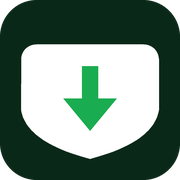
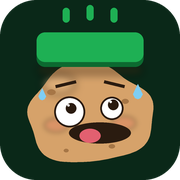
Иконка сайта: смешная картошка под кнопкой

diff --git a/source/make_icon.py b/source/make_icon.py
@@ -1,10 +1,9 @@
-"""Рисует иконку сайта: щит кнопки из игры с зелёной стрелкой вниз.
+"""Рисует иконку сайта: смешная картошка под давлением кнопки.
 
     python tools/make_icon.py <папка build>
 
-Форма — щит: плоский верх со скруглёнными углами, плавные бока, закруглённое
-острие. Пропорции сняты с маски спрайта (плитка 10).
-Один и тот же контур идёт и в растр, и в SVG.
+Картошка приплюснута зелёной кнопкой, таращится вверх и потеет — отсылка
+к «Pressing Under Pressure». Один и тот же набор фигур идёт и в растр, и в SVG.
 Кладёт images/favicon.svg, favicon.ico (16/32/48), apple-touch-icon.png,
 icon-512.png.
 """
@@ -13,95 +12,159 @@ import math
 import sys
 from pathlib import Path
 
-from PIL import Image, ImageDraw
+from PIL import Image, ImageDraw, ImageFilter
 
 GRID = 512
-TOP = 126
-BOTTOM = 452
-HALF = 196
-SHOULDER = 312           # где бока начинают сходиться
-CORNER = 44
+SS = 2                       # суперсэмплинг: рисуем вдвое крупнее и уменьшаем
 
 TILE_RADIUS = 104
 TILE_BG = (10, 40, 24)
 
-ARROW_SHAFT = (233, 188, 279, 284)
-ARROW_HEAD = [(256, 372), (180, 280), (332, 280)]
+POTATO_C = (256, 326)
+POTATO_RX = 178
+POTATO_RY = 142
+POTATO = (214, 162, 106)
+POTATO_HI = (232, 190, 138)
+POTATO_SPOT = (166, 118, 70)
 
+PLATE = (104, 92, 408, 190)      # x0, y0, x1, y1 — зелёная кнопка сверху
+PLATE_R = 24
+PLATE_EDGE = 14                  # толщина нижней грани
+GREEN = (30, 176, 84)
+GREEN_DARK = (12, 106, 48)
+
+INK = (42, 27, 16)
 WHITE = (255, 255, 255)
-GREEN = (26, 172, 80)
+SWEAT = (126, 206, 244)
+
+EYES = [(198, 318, 44), (318, 308, 33)]   # cx, cy, r — разного размера, для смеха
+PUPIL_R = 15
+PUPIL_LIFT = 10
+BROWS = [(158, 246, 216, 232), (296, 232, 354, 246)]
+
+MOUTH = (196, 372, 378, 30)      # x0, x1, y, полувысота открытого рта
+TONGUE = (256, 386, 30, 20)      # cx, cy, rx, ry
+SPECKLES = [(146, 262, 12, 8), (356, 288, 10, 7), (318, 416, 9, 6), (188, 428, 7, 5)]
+SWEATS = [(392, 268, 14), (120, 274, 11)]
 
 
-def _cubic(p0, p1, p2, p3, n=18):
-    out = []
-    for i in range(1, n + 1):
-        t = i / n
-        u = 1 - t
-        x = u ** 3 * p0[0] + 3 * u * u * t * p1[0] + 3 * u * t * t * p2[0] + t ** 3 * p3[0]
-        y = u ** 3 * p0[1] + 3 * u * u * t * p1[1] + 3 * u * t * t * p2[1] + t ** 3 * p3[1]
-        out.append((x, y))
-    return out
-
-
-def _quad(p0, p1, p2, n=14):
-    out = []
-    for i in range(1, n + 1):
-        t = i / n
-        u = 1 - t
-        out.append((u * u * p0[0] + 2 * u * t * p1[0] + t * t * p2[0],
-                    u * u * p0[1] + 2 * u * t * p1[1] + t * t * p2[1]))
-    return out
-
-
-def _arc(cx, cy, r, a0, a1, n=10):
-    return [(cx + math.cos(a0 + (a1 - a0) * i / n) * r,
-             cy + math.sin(a0 + (a1 - a0) * i / n) * r) for i in range(1, n + 1)]
-
-
-def shield_points():
-    """Контур по часовой стрелке: прямые бока и плавный сход в острие."""
-    rt = CORNER
-    top_r = TOP + rt
-    shoulder = SHOULDER
-
-    pts = [(256 - HALF + rt, TOP), (256 + HALF - rt, TOP)]
-    pts += _arc(256 + HALF - rt, top_r, rt, -math.pi / 2, 0)
-
-    # правый бок: вниз до плеча, затем плавный сход к острию
-    pts.append((256 + HALF, shoulder))
-    pts += _quad(
-        (256 + HALF, shoulder),
-        (256 + HALF - 14, BOTTOM - (BOTTOM - shoulder) * 0.34),
-        (256, BOTTOM),
-        26,
-    )
-
-    # левый бок обратно
-    pts += _quad(
-        (256, BOTTOM),
-        (256 - HALF + 14, BOTTOM - (BOTTOM - shoulder) * 0.34),
-        (256 - HALF, shoulder),
-        26,
-    )
-    pts += _arc(256 - HALF + rt, top_r, rt, math.pi, math.pi * 1.5)
+def _blob_points(step=3.0):
+    """Картофелина: эллипс с мягкими неровностями по краю."""
+    pts = []
+    a = 0.0
+    while a < 360.0:
+        t = math.radians(a)
+        r = (1 + 0.055 * math.sin(3 * t + 0.7)
+             + 0.035 * math.cos(5 * t + 2.1)
+             + 0.02 * math.sin(7 * t + 4.0))
+        pts.append((POTATO_C[0] + POTATO_RX * math.cos(t) * r,
+                    POTATO_C[1] + POTATO_RY * math.sin(t) * r))
+        a += step
     return pts
 
 
-def _poly(points, k):
+def _s(points, k):
     return [(x * k, y * k) for x, y in points]
 
 
-def draw(size):
+def _wave(y, x0, x1, amp, humps=3, n=48):
+    """Волнистая линия для гримасы."""
+    out = []
+    for i in range(n + 1):
+        t = i / n
+        x = x0 + (x1 - x0) * t
+        out.append((x, y + amp * math.sin(t * math.pi * 2 * humps)))
+    return out
+
+
+def _drop(cx, cy, size):
+    """Капля пота: круг снизу и острие сверху."""
+    r = size
+    return [
+        (cx, cy - size * 2.1),
+        (cx + r * 0.55, cy - size * 0.9),
+        (cx + r, cy),
+        (cx + r * 0.55, cy + r * 0.8),
+        (cx, cy + r),
+        (cx - r * 0.55, cy + r * 0.8),
+        (cx - r, cy),
+        (cx - r * 0.55, cy - size * 0.9),
+    ]
+
+
+def draw(size=1024):
     k = size / GRID
     img = Image.new("RGBA", (size, size), (0, 0, 0, 0))
     d = ImageDraw.Draw(img)
 
+    # фон
     d.rounded_rectangle([0, 0, size - 1, size - 1], radius=TILE_RADIUS * k, fill=TILE_BG + (255,))
-    d.polygon(_poly(shield_points(), k), fill=WHITE + (255,))
 
-    x0, y0, x1, y1 = ARROW_SHAFT
-    d.rectangle([x0 * k, y0 * k, x1 * k, y1 * k], fill=GREEN + (255,))
-    d.polygon(_poly(ARROW_HEAD, k), fill=GREEN + (255,))
+    # картошка и её блик
+    d.polygon(_s(_blob_points(), k), fill=POTATO + (255,))
+
+    hi = Image.new("RGBA", (size, size), (0, 0, 0, 0))
+    ImageDraw.Draw(hi).ellipse([x * k for x in (118, 210, 214, 268)], fill=POTATO_HI + (120,))
+    img.alpha_composite(hi.filter(ImageFilter.GaussianBlur(12 * k)))
+
+    # румянец на щеках
+    blush = Image.new("RGBA", (size, size), (0, 0, 0, 0))
+    bd = ImageDraw.Draw(blush)
+    for cx, cy in ((160, 356), (352, 350)):
+        bd.ellipse([(cx - 34) * k, (cy - 20) * k, (cx + 34) * k, (cy + 20) * k],
+                   fill=(226, 120, 96, 90))
+    img.alpha_composite(blush.filter(ImageFilter.GaussianBlur(7 * k)))
+
+    for cx, cy, rx, ry in SPECKLES:
+        d.ellipse([(cx - rx) * k, (cy - ry) * k, (cx + rx) * k, (cy + ry) * k],
+                  fill=POTATO_SPOT + (255,))
+
+    # тень от кнопки на картошке
+    shadow = Image.new("RGBA", (size, size), (0, 0, 0, 0))
+    ImageDraw.Draw(shadow).rounded_rectangle(
+        [PLATE[0] * k, (PLATE[3] - 6) * k, PLATE[2] * k, (PLATE[3] + 26) * k],
+        radius=PLATE_R * k, fill=(60, 34, 12, 90))
+    img.alpha_composite(shadow.filter(ImageFilter.GaussianBlur(10 * k)))
+
+    # кнопка, которая давит сверху
+    x0, y0, x1, y1 = PLATE
+    d.rounded_rectangle([x0 * k, (y0 + PLATE_EDGE) * k, x1 * k, y1 * k],
+                        radius=PLATE_R * k, fill=GREEN_DARK + (255,))
+    d.rounded_rectangle([x0 * k, y0 * k, x1 * k, (y1 - PLATE_EDGE) * k],
+                        radius=PLATE_R * k, fill=GREEN + (255,))
+
+    # линии скорости над кнопкой
+    for cx, y0, y1 in ((188, 22, 64), (256, 14, 58), (324, 22, 64)):
+        d.rounded_rectangle([(cx - 10) * k, y0 * k, (cx + 10) * k, y1 * k],
+                            radius=10 * k, fill=GREEN + (255,))
+
+    # глаза — разные, чтобы картошка выглядела придурковато
+    for cx, cy, r in EYES:
+        d.ellipse([(cx - r) * k, (cy - r) * k, (cx + r) * k, (cy + r) * k], fill=WHITE + (255,))
+        d.ellipse([(cx - r) * k, (cy - r) * k, (cx + r) * k, (cy + r) * k],
+                  outline=INK + (255,), width=int(5 * k))
+    for cx, cy, r in EYES:
+        px, py = cx + 4, cy - PUPIL_LIFT
+        d.ellipse([(px - PUPIL_R) * k, (py - PUPIL_R) * k,
+                   (px + PUPIL_R) * k, (py + PUPIL_R) * k], fill=INK + (255,))
+        d.ellipse([(px - PUPIL_R + 4) * k, (py - PUPIL_R + 3) * k,
+                   (px - PUPIL_R + 11) * k, (py - PUPIL_R + 10) * k], fill=WHITE + (255,))
+
+    # поднятые брови — удивление от давления
+    for x0, y0, x1, y1 in BROWS:
+        d.line(_s([(x0, y0), (x1, y1)], k), fill=INK + (255,),
+               width=int(9 * k))
+
+    # открытый рот с языком
+    mx0, mx1, my, mh = MOUTH
+    d.ellipse([mx0 * k, (my - mh) * k, mx1 * k, (my + mh) * k], fill=INK + (255,))
+    tx, ty, trx, try_ = TONGUE
+    d.ellipse([(tx - trx) * k, (ty - try_) * k, (tx + trx) * k, (ty + try_) * k],
+              fill=(226, 96, 112, 255))
+
+    # пот
+    for cx, cy, size_ in SWEATS:
+        d.polygon(_s(_drop(cx, cy, size_), k), fill=SWEAT + (255,))
     return img
 
 
@@ -109,32 +172,95 @@ def _fmt(points):
     return " ".join(f"{x:.1f},{y:.1f}" for x, y in points)
 
 
-def _path(points):
-    return "M" + " L".join(f"{x:.1f} {y:.1f}" for x, y in points) + " Z"
+def _path(points, close=False):
+    d = "M" + " L".join(f"{x:.1f} {y:.1f}" for x, y in points)
+    return d + (" Z" if close else "")
 
 
 def svg():
-    x0, y0, x1, y1 = ARROW_SHAFT
-    return f"""<svg xmlns="http://www.w3.org/2000/svg" viewBox="0 0 512 512" width="512" height="512">
-  <rect width="512" height="512" rx="{TILE_RADIUS}" fill="rgb{TILE_BG}"/>
-  <path d="{_path(shield_points())}" fill="#ffffff"/>
-  <rect x="{x0}" y="{y0}" width="{x1 - x0}" height="{y1 - y0}" fill="rgb{GREEN}"/>
-  <polygon points="{_fmt(ARROW_HEAD)}" fill="rgb{GREEN}"/>
-</svg>
-"""
+    x0, y0, x1, y1 = PLATE
+    mouth = _wave(MOUTH[2], MOUTH[0], MOUTH[1], MOUTH[3])
+    parts = [
+        f'<svg xmlns="http://www.w3.org/2000/svg" viewBox="0 0 512 512" width="512" height="512">',
+        f'  <rect width="512" height="512" rx="{TILE_RADIUS}" fill="rgb{TILE_BG}"/>',
+        f'  <path d="{_path(_blob_points(), True)}" fill="rgb{POTATO}"/>',
+        '  <ellipse cx="166" cy="252" rx="50" ry="32" fill="rgb' + str(POTATO_HI) + '" opacity="0.55"/>',
+        '  <ellipse cx="160" cy="356" rx="34" ry="20" fill="rgb(226,120,96)" opacity="0.35"/>',
+        '  <ellipse cx="352" cy="350" rx="34" ry="20" fill="rgb(226,120,96)" opacity="0.35"/>',
+    ]
+    for cx, cy, rx, ry in SPECKLES:
+        parts.append(f'  <ellipse cx="{cx}" cy="{cy}" rx="{rx}" ry="{ry}" fill="rgb{POTATO_SPOT}"/>')
+
+    parts.append('  <defs><filter id="soft" x="-20%" y="-60%" width="140%" height="220%">'
+                 '<feGaussianBlur stdDeviation="7"/></filter></defs>')
+    parts.append(f'  <rect x="{x0}" y="{y1 - 2}" width="{x1 - x0}" height="24" rx="{PLATE_R}" '
+                 f'fill="rgb(60,34,12)" opacity="0.42" filter="url(#soft)"/>')
+    parts.append(f'  <rect x="{x0}" y="{y0 + PLATE_EDGE}" width="{x1 - x0}" height="{y1 - y0 - PLATE_EDGE}" '
+                 f'rx="{PLATE_R}" fill="rgb{GREEN_DARK}"/>')
+    parts.append(f'  <rect x="{x0}" y="{y0}" width="{x1 - x0}" height="{y1 - y0 - PLATE_EDGE}" '
+                 f'rx="{PLATE_R}" fill="rgb{GREEN}"/>')
+    for cx, y0, y1 in ((188, 22, 64), (256, 14, 58), (324, 22, 64)):
+        parts.append(f'  <rect x="{cx - 10}" y="{y0}" width="20" height="{y1 - y0}" rx="10" fill="rgb{GREEN}"/>')
+
+    for cx, cy, r in EYES:
+        parts.append(f'  <circle cx="{cx}" cy="{cy}" r="{r}" fill="#ffffff" stroke="rgb{INK}" stroke-width="5"/>')
+    for cx, cy, r in EYES:
+        px, py = cx + 4, cy - PUPIL_LIFT
+        parts.append(f'  <circle cx="{px}" cy="{py}" r="{PUPIL_R}" fill="rgb{INK}"/>')
+        parts.append(f'  <circle cx="{px - PUPIL_R + 8}" cy="{py - PUPIL_R + 6}" r="4" fill="#ffffff"/>')
+
+    for x0, y0, x1, y1 in BROWS:
+        parts.append(f'  <line x1="{x0}" y1="{y0}" x2="{x1}" y2="{y1}" '
+                     f'stroke="rgb{INK}" stroke-width="9" stroke-linecap="round"/>')
+
+    mx0, mx1, my, mh = MOUTH
+    parts.append(f'  <ellipse cx="{(mx0 + mx1) / 2}" cy="{my}" rx="{(mx1 - mx0) / 2}" ry="{mh}" fill="rgb{INK}"/>')
+    tx, ty, trx, try_ = TONGUE
+    parts.append(f'  <ellipse cx="{tx}" cy="{ty}" rx="{trx}" ry="{try_}" fill="rgb(226,96,112)"/>')
+
+    for cx, cy, size_ in SWEATS:
+        parts.append(f'  <path d="{_path(_drop(cx, cy, size_), True)}" fill="rgb{SWEAT}"/>')
+
+    parts.append('</svg>')
+    return "\n".join(parts) + "\n"
+
+
+def draw_small(size):
+    """Упрощённая версия для 16–32 px: крупные глаза и рот, без мелочей."""
+    k = size / GRID
+    img = Image.new("RGBA", (size, size), (0, 0, 0, 0))
+    d = ImageDraw.Draw(img)
+
+    d.rounded_rectangle([0, 0, size - 1, size - 1], radius=TILE_RADIUS * k, fill=TILE_BG + (255,))
+    d.ellipse([120 * k, 168 * k, 392 * k, 470 * k], fill=POTATO + (255,))
+
+    x0, y0, x1, y1 = (84, 84, 428, 208)
+    d.rounded_rectangle([x0 * k, (y0 + 20) * k, x1 * k, y1 * k], radius=32 * k, fill=GREEN_DARK + (255,))
+    d.rounded_rectangle([x0 * k, y0 * k, x1 * k, (y1 - 20) * k], radius=32 * k, fill=GREEN + (255,))
+
+    for cx, cy, r in ((190, 306, 60), (330, 306, 52)):
+        d.ellipse([(cx - r) * k, (cy - r) * k, (cx + r) * k, (cy + r) * k], fill=WHITE + (255,))
+        pr = int(r * 0.44)
+        d.ellipse([(cx - pr) * k, (cy - pr - 6) * k, (cx + pr) * k, (cy + pr - 6) * k], fill=INK + (255,))
+
+    d.ellipse([184 * k, 372 * k, 384 * k, 448 * k], fill=INK + (255,))
+    return img
 
 
 def build(out_dir):
     out = Path(out_dir) / "images"
     out.mkdir(parents=True, exist_ok=True)
 
-    master = draw(1024)
+    master = draw(GRID * SS).resize((512, 512), Image.LANCZOS)
     master.save(out / "icon-512.png")
     master.resize((180, 180), Image.LANCZOS).save(out / "apple-touch-icon.png")
     (out / "favicon.svg").write_text(svg(), encoding="utf-8")
 
     sizes = [(16, 16), (32, 32), (48, 48)]
-    frames = [master.resize(s, Image.LANCZOS) for s in sizes]
+    frames = []
+    for w, h in sizes:
+        base = draw_small(GRID) if w <= 32 else draw(GRID * SS)
+        frames.append(base.resize((w, h), Image.LANCZOS))
     frames[-1].save(out / "favicon.ico", format="ICO", sizes=sizes, append_images=frames[:-1])
     return out
 

diff --git a/README.md b/README.md
@@ -33,8 +33,9 @@
 
 ## Иконка
 
-`source/make_icon.py` рисует щит с зелёной стрелкой и кладёт `favicon.svg`,
-`favicon.ico` (16/32/48), `apple-touch-icon.png`, `icon-512.png`.
+`source/make_icon.py` рисует смешную картошку под зелёной кнопкой и кладёт
+`favicon.svg`, `favicon.ico` (16/32/48), `apple-touch-icon.png`, `icon-512.png`.
+Для 16 и 32 px используется упрощённый кадр — крупные глаза и рот, без мелочей.
 `site.webmanifest` ссылается на те же файлы, `theme-color` — `#0c1e12`.
 
 ## Пересборка
